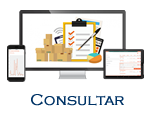
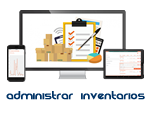
nuevos iconos faltaron commitear

Changed region(s): [[0.0267, 0.75, 0.9867, 0.9]]

diff --git a/PRF/inventario/Sua.Inventario.Biz/PosicionesBiz.cs b/PRF/inventario/Sua.Inventario.Biz/PosicionesBiz.cs
@@ -39,7 +39,7 @@ namespace Corp.Cencosud.Supermercados.Sua.Inventario.Biz
         {
             posicion.usuario = "Mobile";
             var sArticulo = posicion.articulo.Split('-');
-            if(sArticulo.Any())
+            if(sArticulo.Length == 2)
             {
                 posicion.codigoArticulo = sArticulo[1];
             }
